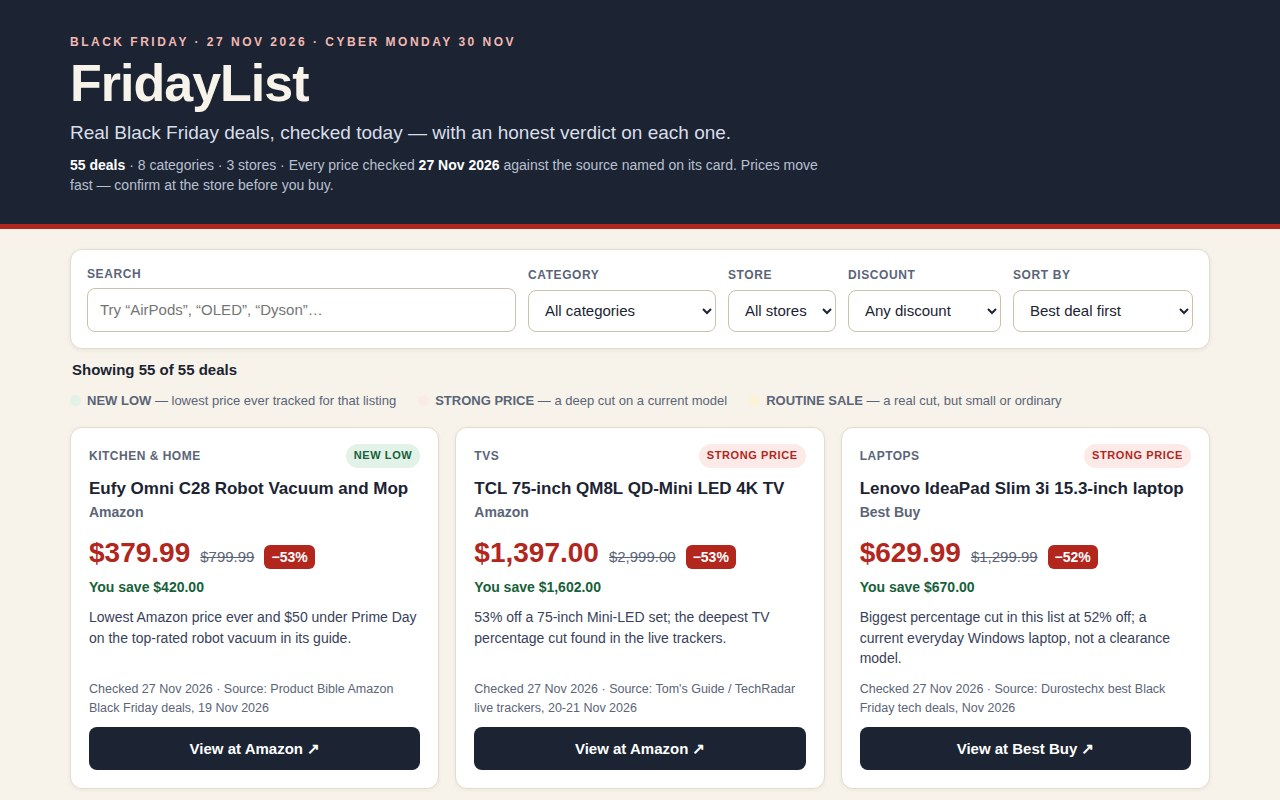
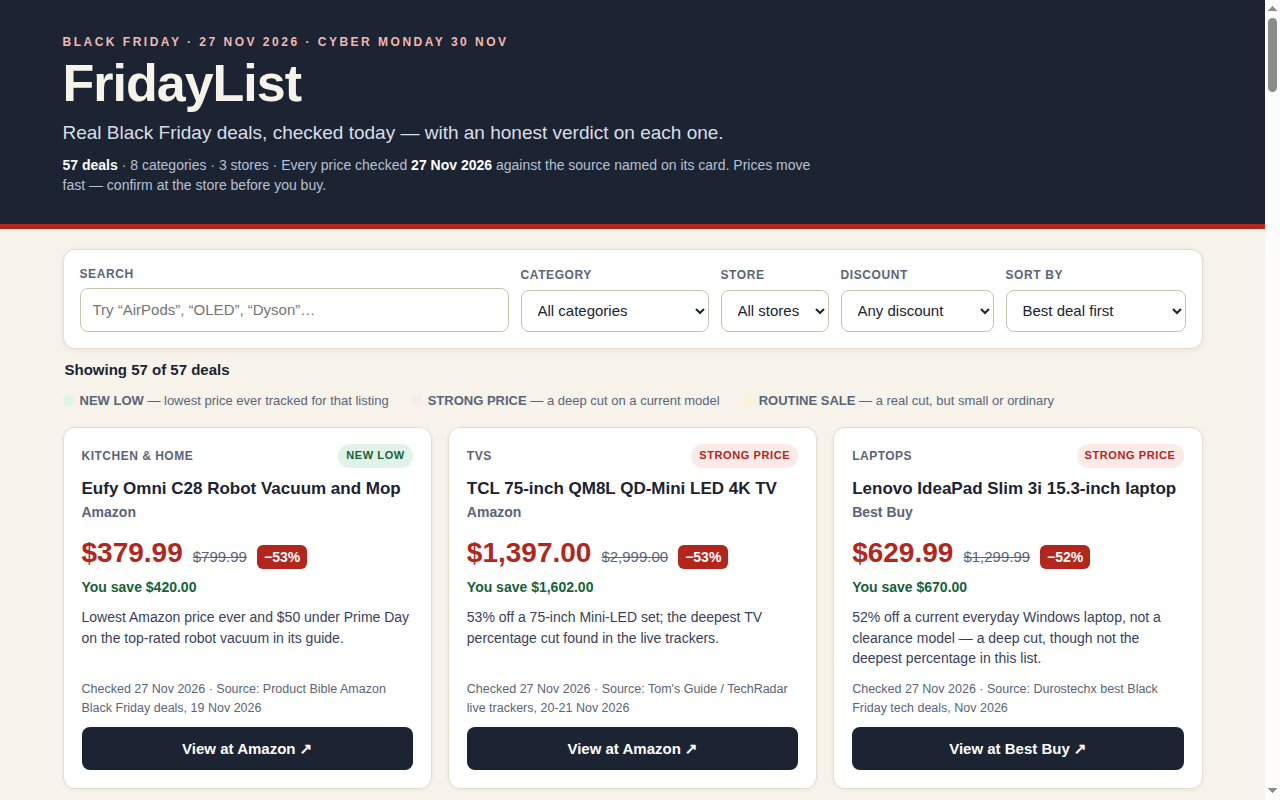
Continuation: add 2 verified deals (AirTag 2 $18 NEW LOW, LG B6E 55" $799.99), fix false 'biggest cut' claim on Slim 3i; 55 -> 57 deals, re-rendered screenshots

diff --git a/app/deals.js b/app/deals.js
@@ -18,7 +18,7 @@ export const DEALS = [
   { id: "mba13-bb", name: "Apple MacBook Air 13-inch, M5, 16GB / 512GB", cat: "Laptops", store: "Best Buy", sale: 1049, usual: 1299, signal: "STRONG PRICE", evidence: "$250 off the current model in Best Buy's own Black Friday release; $60 more than Amazon's price, so compare first.", source: "Best Buy Black Friday release, 17 Nov 2026", q: "MacBook Air 13 M5 16GB 512GB", group: "mba13" },
   { id: "mba15-amz", name: "Apple MacBook Air 15-inch, M5, 16GB / 512GB", cat: "Laptops", store: "Amazon", sale: 1197, usual: 1499, signal: "STRONG PRICE", evidence: "Over $300 off the larger Air; the 13-inch is the better value per dollar, but this is the cheapest 15-inch M5 so far.", source: "9to5Mac Black Friday deals, 23 Nov 2026", q: "MacBook Air 15 M5 16GB 512GB" },
   { id: "mbneo-amz", name: "Apple MacBook Neo 13-inch, 256GB", cat: "Laptops", store: "Amazon", sale: 599, usual: 700, signal: "ROUTINE SALE", evidence: "Only $100 off and Apple's education store lists it from $599 too, so the saving is real but not special.", source: "9to5Mac Black Friday deals, 23 Nov 2026", q: "MacBook Neo 256GB" },
-  { id: "slim3i-bb", name: "Lenovo IdeaPad Slim 3i 15.3-inch laptop", cat: "Laptops", store: "Best Buy", sale: 629.99, usual: 1299.99, signal: "STRONG PRICE", evidence: "Biggest percentage cut in this list at 52% off; a current everyday Windows laptop, not a clearance model.", source: "Durostechx best Black Friday tech deals, Nov 2026", q: "Lenovo IdeaPad Slim 3i" },
+  { id: "slim3i-bb", name: "Lenovo IdeaPad Slim 3i 15.3-inch laptop", cat: "Laptops", store: "Best Buy", sale: 629.99, usual: 1299.99, signal: "STRONG PRICE", evidence: "52% off a current everyday Windows laptop, not a clearance model — a deep cut, though not the deepest percentage in this list.", source: "Durostechx best Black Friday tech deals, Nov 2026", q: "Lenovo IdeaPad Slim 3i" },
   { id: "legion5i-len", name: "Lenovo Legion Pro 5i Gen 10 gaming laptop, RTX 5060, 16GB / 1TB", cat: "Laptops", store: "Lenovo", sale: 1649.99, usual: 2666.99, signal: "STRONG PRICE", evidence: "$1,017 off list on a current-gen gaming laptop with an RTX 5060; the list price is Lenovo's own MSRP, so treat the % with care.", source: "Durostechx best Black Friday tech deals, Nov 2026", q: "Legion Pro 5i Gen 10 RTX 5060" },
   { id: "omnibook5-bb", name: "HP OmniBook 5 14-inch 2K OLED Touch laptop, Core 5, 8GB / 256GB", cat: "Laptops", store: "Best Buy", sale: 449.99, usual: 799.99, signal: "STRONG PRICE", evidence: "$350 off an OLED-screen laptop; note the 8GB memory and 256GB storage are tight for heavy multitasking.", source: "Best Buy Black Friday release, 17 Nov 2026", q: "HP OmniBook 5 14 OLED" },
   { id: "macmini-amz", name: "Apple Mac mini, M6", cat: "Laptops", store: "Amazon", sale: 779, usual: 899, signal: "ROUTINE SALE", evidence: "A modest $120 off the cheapest way into Apple's current chip line; good value, but only a 13% cut.", source: "Durostechx best Black Friday tech deals, Nov 2026", q: "Mac mini M6" },
@@ -26,6 +26,7 @@ export const DEALS = [
   { id: "lgc6-bb", name: "LG C6 OLED evo 55-inch 4K TV", cat: "TVs", store: "Best Buy", sale: 999.99, usual: 1999.99, signal: "STRONG PRICE", evidence: "A 2026 OLED TV for under $1,000 at half its comparable value; the standout TV deal of the sale.", source: "Durostechx best Black Friday tech deals, Nov 2026", q: "LG C6 OLED evo 55 TV" },
   { id: "sams84h-bb", name: "Samsung S84H OLED 65-inch 4K TV", cat: "TVs", store: "Best Buy", sale: 999.99, usual: 2099.99, signal: "STRONG PRICE", evidence: "65-inch OLED for under $1,000; the comparable value is Best Buy's own, so the cash price is what matters — and it is low.", source: "Durostechx best Black Friday tech deals, Nov 2026", q: "Samsung S84H OLED 65 TV" },
   { id: "lgb6-bb", name: "LG B6 OLED 48-inch 4K TV", cat: "TVs", store: "Best Buy", sale: 599, usual: 1199, signal: "STRONG PRICE", evidence: "$600 off a 48-inch OLED — the cheapest way into an OLED panel this Black Friday.", source: "Tom's Guide / TechRadar live trackers, 20-21 Nov 2026", q: "LG B6 OLED 48 TV" },
+  { id: "lgb6e-bb", name: "LG B6E OLED 55-inch 4K TV", cat: "TVs", store: "Best Buy", sale: 799.99, usual: 1399.99, signal: "STRONG PRICE", evidence: "The cheapest way into a 55-inch OLED at Best Buy, $600 off — but it has sat at $799.99 before (Labor Day), so this repeats a known low rather than setting a new one.", source: "Pete Matheson Black Friday tech deals, Nov 2026", q: "LG B6E OLED 55 TV" },
   { id: "tclqm8l-amz", name: "TCL 75-inch QM8L QD-Mini LED 4K TV", cat: "TVs", store: "Amazon", sale: 1397, usual: 2999, signal: "STRONG PRICE", evidence: "53% off a 75-inch Mini-LED set; the deepest TV percentage cut found in the live trackers.", source: "Tom's Guide / TechRadar live trackers, 20-21 Nov 2026", q: "TCL QM8L 75 TV" },
   { id: "tcl65-bb", name: "TCL 65-inch 4K UHD HDR Smart TV with Fire TV (2026)", cat: "TVs", store: "Best Buy", sale: 229.99, usual: 469.99, signal: "STRONG PRICE", evidence: "$240 off in Best Buy's own release; the best budget big-screen price live today.", source: "Best Buy Black Friday release, 17 Nov 2026", q: "TCL 65 4K Fire TV" },
   { id: "insignia40-bb", name: "Insignia 40-inch F40 Series Full HD Smart Fire TV", cat: "TVs", store: "Best Buy", sale: 89.99, usual: 149.99, signal: "STRONG PRICE", evidence: "$60 off a sub-$100 TV; a genuine doorbuster price for a second room, not a flagship.", source: "Best Buy Black Friday release, 17 Nov 2026", q: "Insignia 40 F40 Fire TV" },
@@ -49,6 +50,7 @@ export const DEALS = [
   { id: "watchse3-amz", name: "Apple Watch SE 3, 40mm GPS", cat: "Phones & Tablets", store: "Amazon", sale: 179, usual: 249, signal: "NEW LOW", evidence: "$70 off and an all-time low on the current budget Apple Watch.", source: "9to5Toys Black Friday coverage, 22 Nov 2026", q: "Apple Watch SE 3 40mm" },
   { id: "galaxywatch8-amz", name: "Samsung Galaxy Watch 8, 40mm Bluetooth", cat: "Phones & Tablets", store: "Amazon", sale: 200, usual: 300, signal: "STRONG PRICE", evidence: "$100 off Samsung's current smartwatch.", source: "Bargain Hunter Amazon Black Friday deals, Nov 2026", q: "Samsung Galaxy Watch 8 40mm" },
   { id: "pencil-amz", name: "Apple Pencil, USB-C", cat: "Phones & Tablets", store: "Amazon", sale: 49, usual: 79, signal: "STRONG PRICE", evidence: "$30 off, the best price of the year on the USB-C Pencil.", source: "9to5Mac Black Friday deals, 23 Nov 2026", q: "Apple Pencil USB-C" },
+  { id: "airtag2-amz", name: "Apple AirTag 2, single tracker", cat: "Phones & Tablets", store: "Amazon", sale: 18, usual: 29, signal: "NEW LOW", evidence: "All-time low on the 2026 AirTag 2 — $11 under its $29 list, with longer range and a louder speaker than the original; the 4-pack at $79 is a worse deal per tracker.", source: "9to5Toys Black Friday coverage, 24 Nov 2026", q: "AirTag 2" },
   // ---- Smart Home ----
   { id: "firestick4k-amz", name: "Amazon Fire TV Stick 4K (2026)", cat: "Smart Home", store: "Amazon", sale: 19.99, usual: 59.99, signal: "STRONG PRICE", evidence: "Two-thirds off Amazon's own 4K stick — the classic loss-leader price, tracked at $19.99.", source: "9to5Toys Black Friday coverage, 22 Nov 2026", q: "Fire TV Stick 4K" },
   { id: "echospot-amz", name: "Amazon Echo Spot, 2nd generation", cat: "Smart Home", store: "Amazon", sale: 44, usual: 109.99, signal: "STRONG PRICE", evidence: "60% off the smart alarm clock with Alexa; Amazon's own devices carry the deepest cuts in this sale.", source: "TechResearchOnline Black Friday sales, Nov 2026", q: "Echo Spot 2nd gen" },

diff --git a/app/index.html b/app/index.html
@@ -4,7 +4,7 @@
 <meta charset="utf-8">
 <meta name="viewport" content="width=device-width, initial-scale=1">
 <title>FridayList — Real Black Friday 2026 Deals, Checked Today</title>
-<meta name="description" content="55 real Black Friday 2026 deals, each checked 27 Nov 2026 against its source, with an honest verdict on whether it is really a deal. Search, filter and compare by store.">
+<meta name="description" content="57 real Black Friday 2026 deals, each checked 27 Nov 2026 against its source, with an honest verdict on whether it is really a deal. Search, filter and compare by store.">
 <link rel="stylesheet" href="style.css">
 <script type="module" src="app.js"></script>
 </head>
@@ -14,7 +14,7 @@
     <p class="kicker">BLACK FRIDAY · 27 NOV 2026 · CYBER MONDAY 30 NOV</p>
     <h1>FridayList</h1>
     <p class="tagline">Real Black Friday deals, checked today — with an honest verdict on each one.</p>
-    <p class="stats"><strong>55 deals</strong> · 8 categories · 3 stores · Every price checked <strong>27 Nov 2026</strong> against the source named on its card. Prices move fast — confirm at the store before you buy.</p>
+    <p class="stats"><strong>57 deals</strong> · 8 categories · 3 stores · Every price checked <strong>27 Nov 2026</strong> against the source named on its card. Prices move fast — confirm at the store before you buy.</p>
   </div>
 </header>
 
@@ -58,7 +58,7 @@
     </label>
   </section>
 
-  <p id="countLine" class="count" aria-live="polite">Showing 55 of 55 deals</p>
+  <p id="countLine" class="count" aria-live="polite">Showing 57 of 57 deals</p>
 
   <section class="legend" aria-label="How to read a deal">
     <span><i class="dot sig-new"></i><strong>NEW LOW</strong> — lowest price ever tracked for that listing</span>

diff --git a/README.md b/README.md
@@ -4,7 +4,7 @@
 [![rank](https://make.fun/badge/black-friday-deal-finder-01/Khanhduy203/black-friday-deal-finder-01/rank.svg)](https://make.fun/bounty/black-friday-deal-finder-01/leaderboard?utm_source=github&utm_medium=readme&utm_campaign=black-friday-deal-finder-01)
 [![reward](https://make.fun/badge/black-friday-deal-finder-01/Khanhduy203/black-friday-deal-finder-01/reward.svg)](https://make.fun/bounty/black-friday-deal-finder-01?utm_source=github&utm_medium=readme&utm_campaign=black-friday-deal-finder-01)
 
-FridayList — 55 real Black Friday 2026 deals, each checked 27 Nov 2026 against a named source, with an honest verdict (NEW LOW / STRONG PRICE / ROUTINE SALE) and the same product compared across stores. Search, filter by category, store and discount, and sort by deal score, discount or cash saved. Static files, no network requests at runtime.
+FridayList — 57 real Black Friday 2026 deals, each checked 27 Nov 2026 against a named source, with an honest verdict (NEW LOW / STRONG PRICE / ROUTINE SALE) and the same product compared across stores. Search, filter by category, store and discount, and sort by deal score, discount or cash saved. Static files, no network requests at runtime.
 
 ## Run it
 
